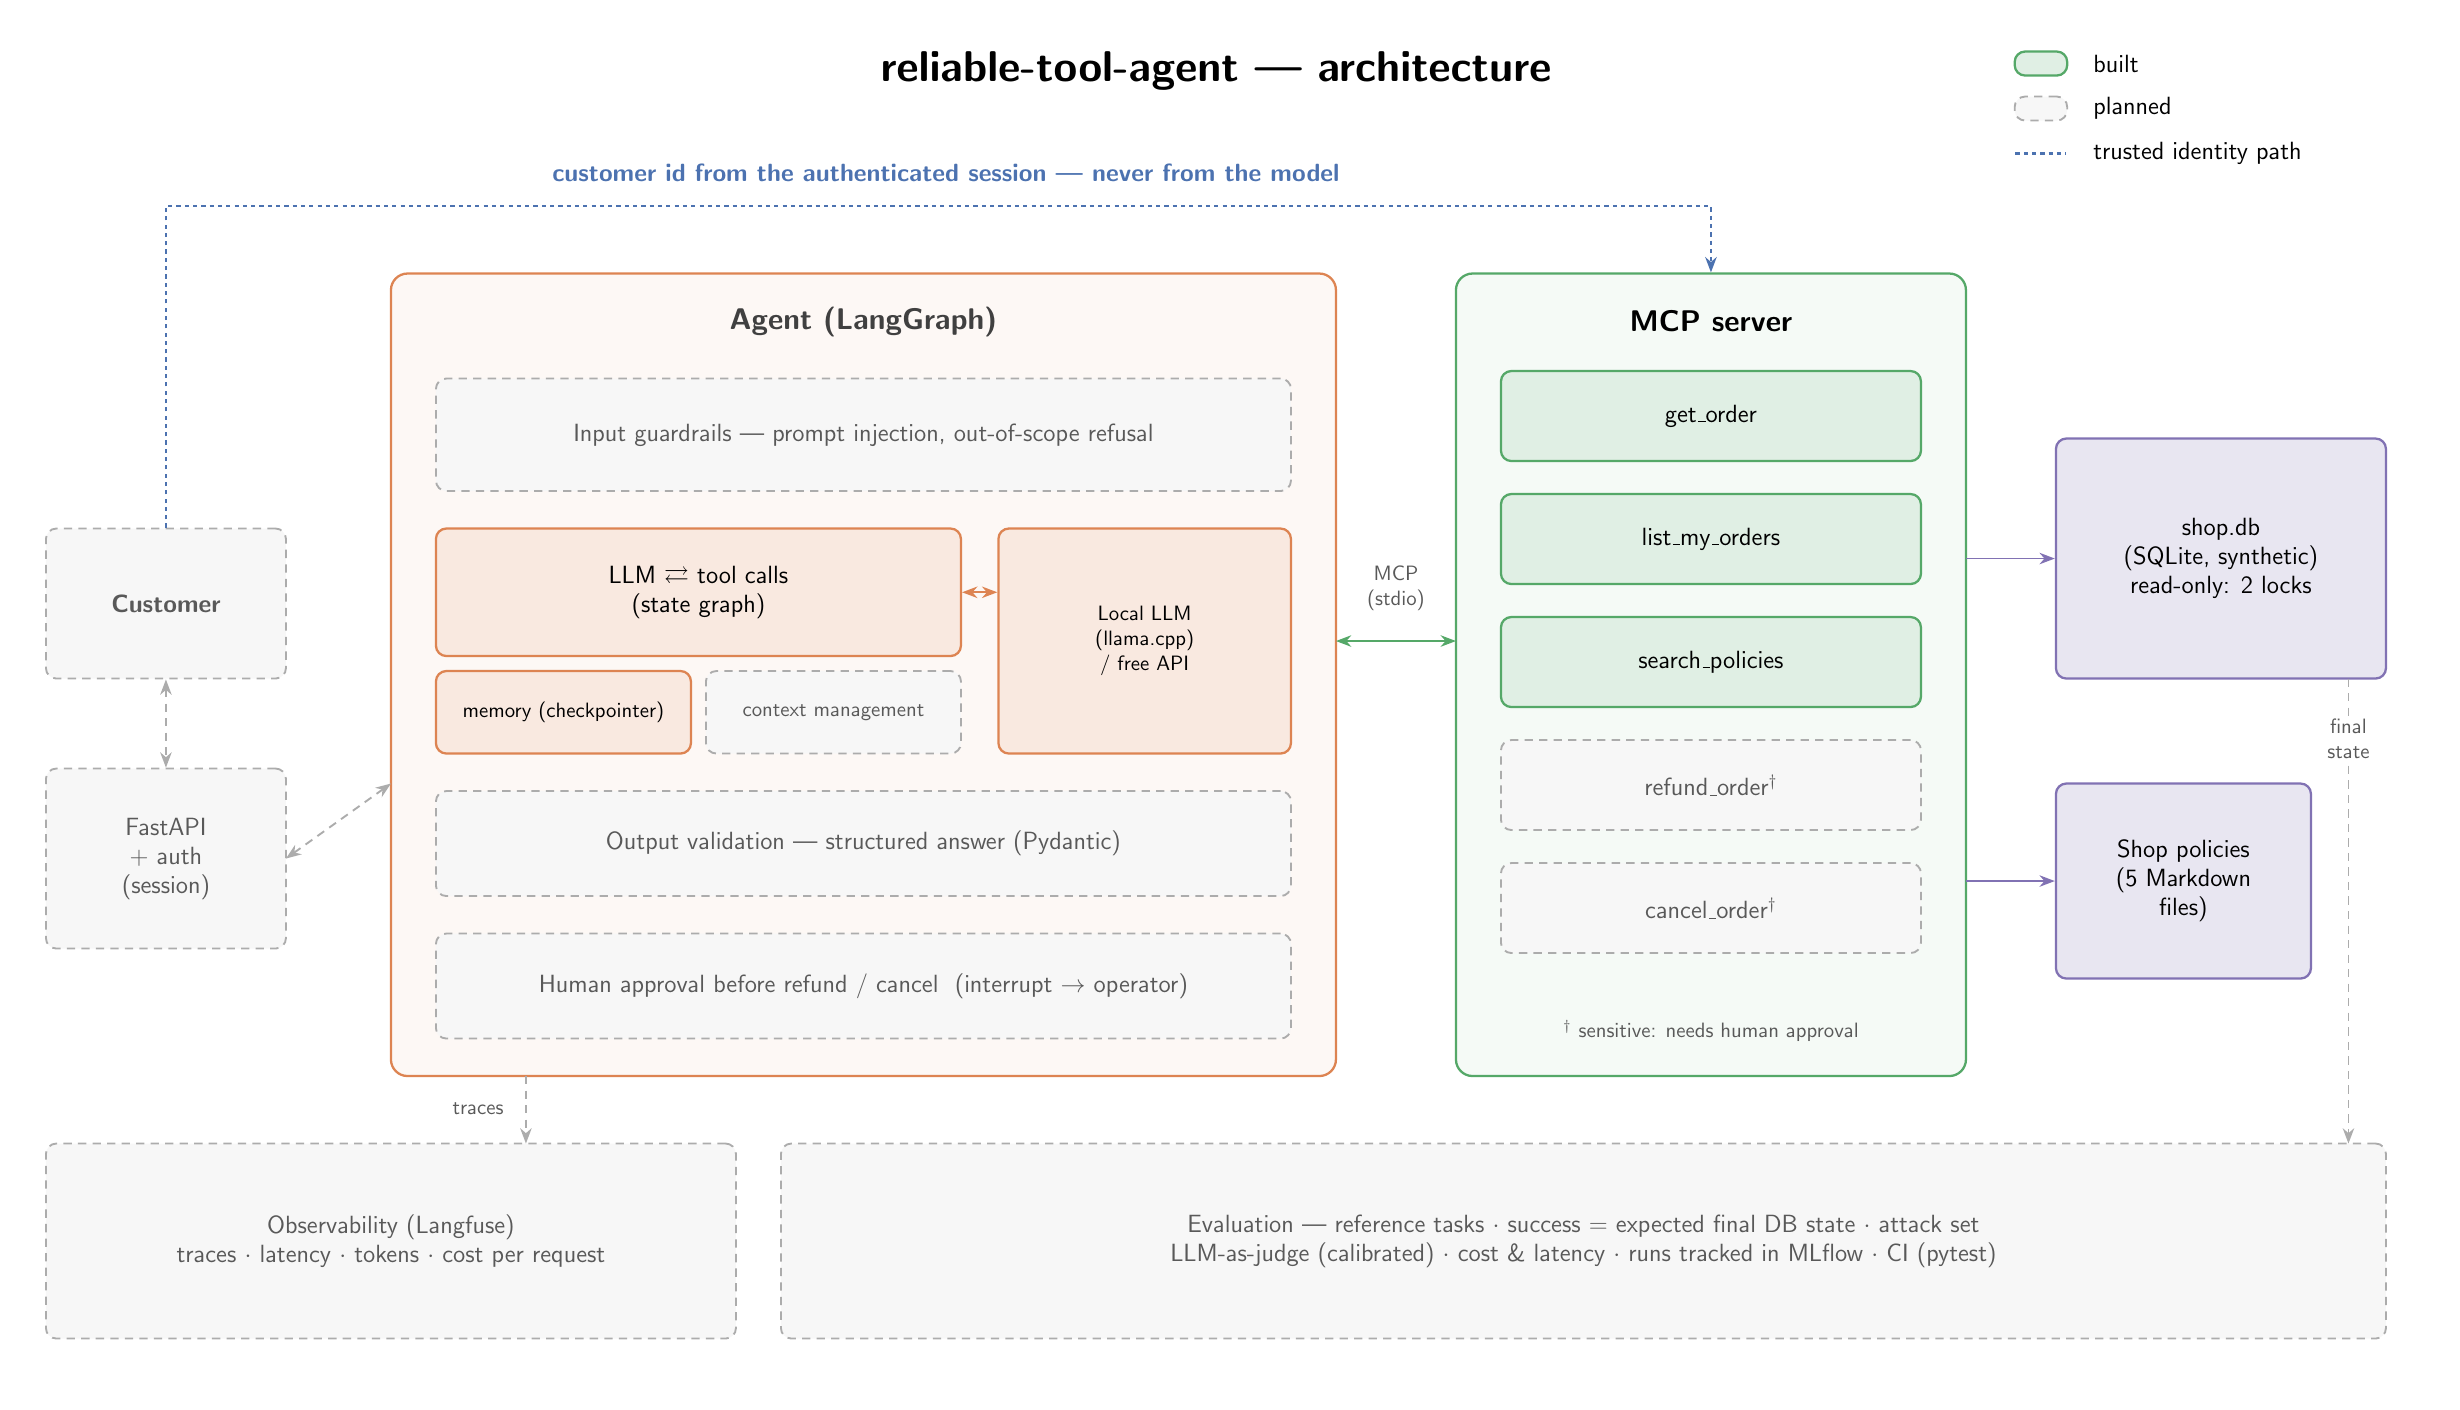
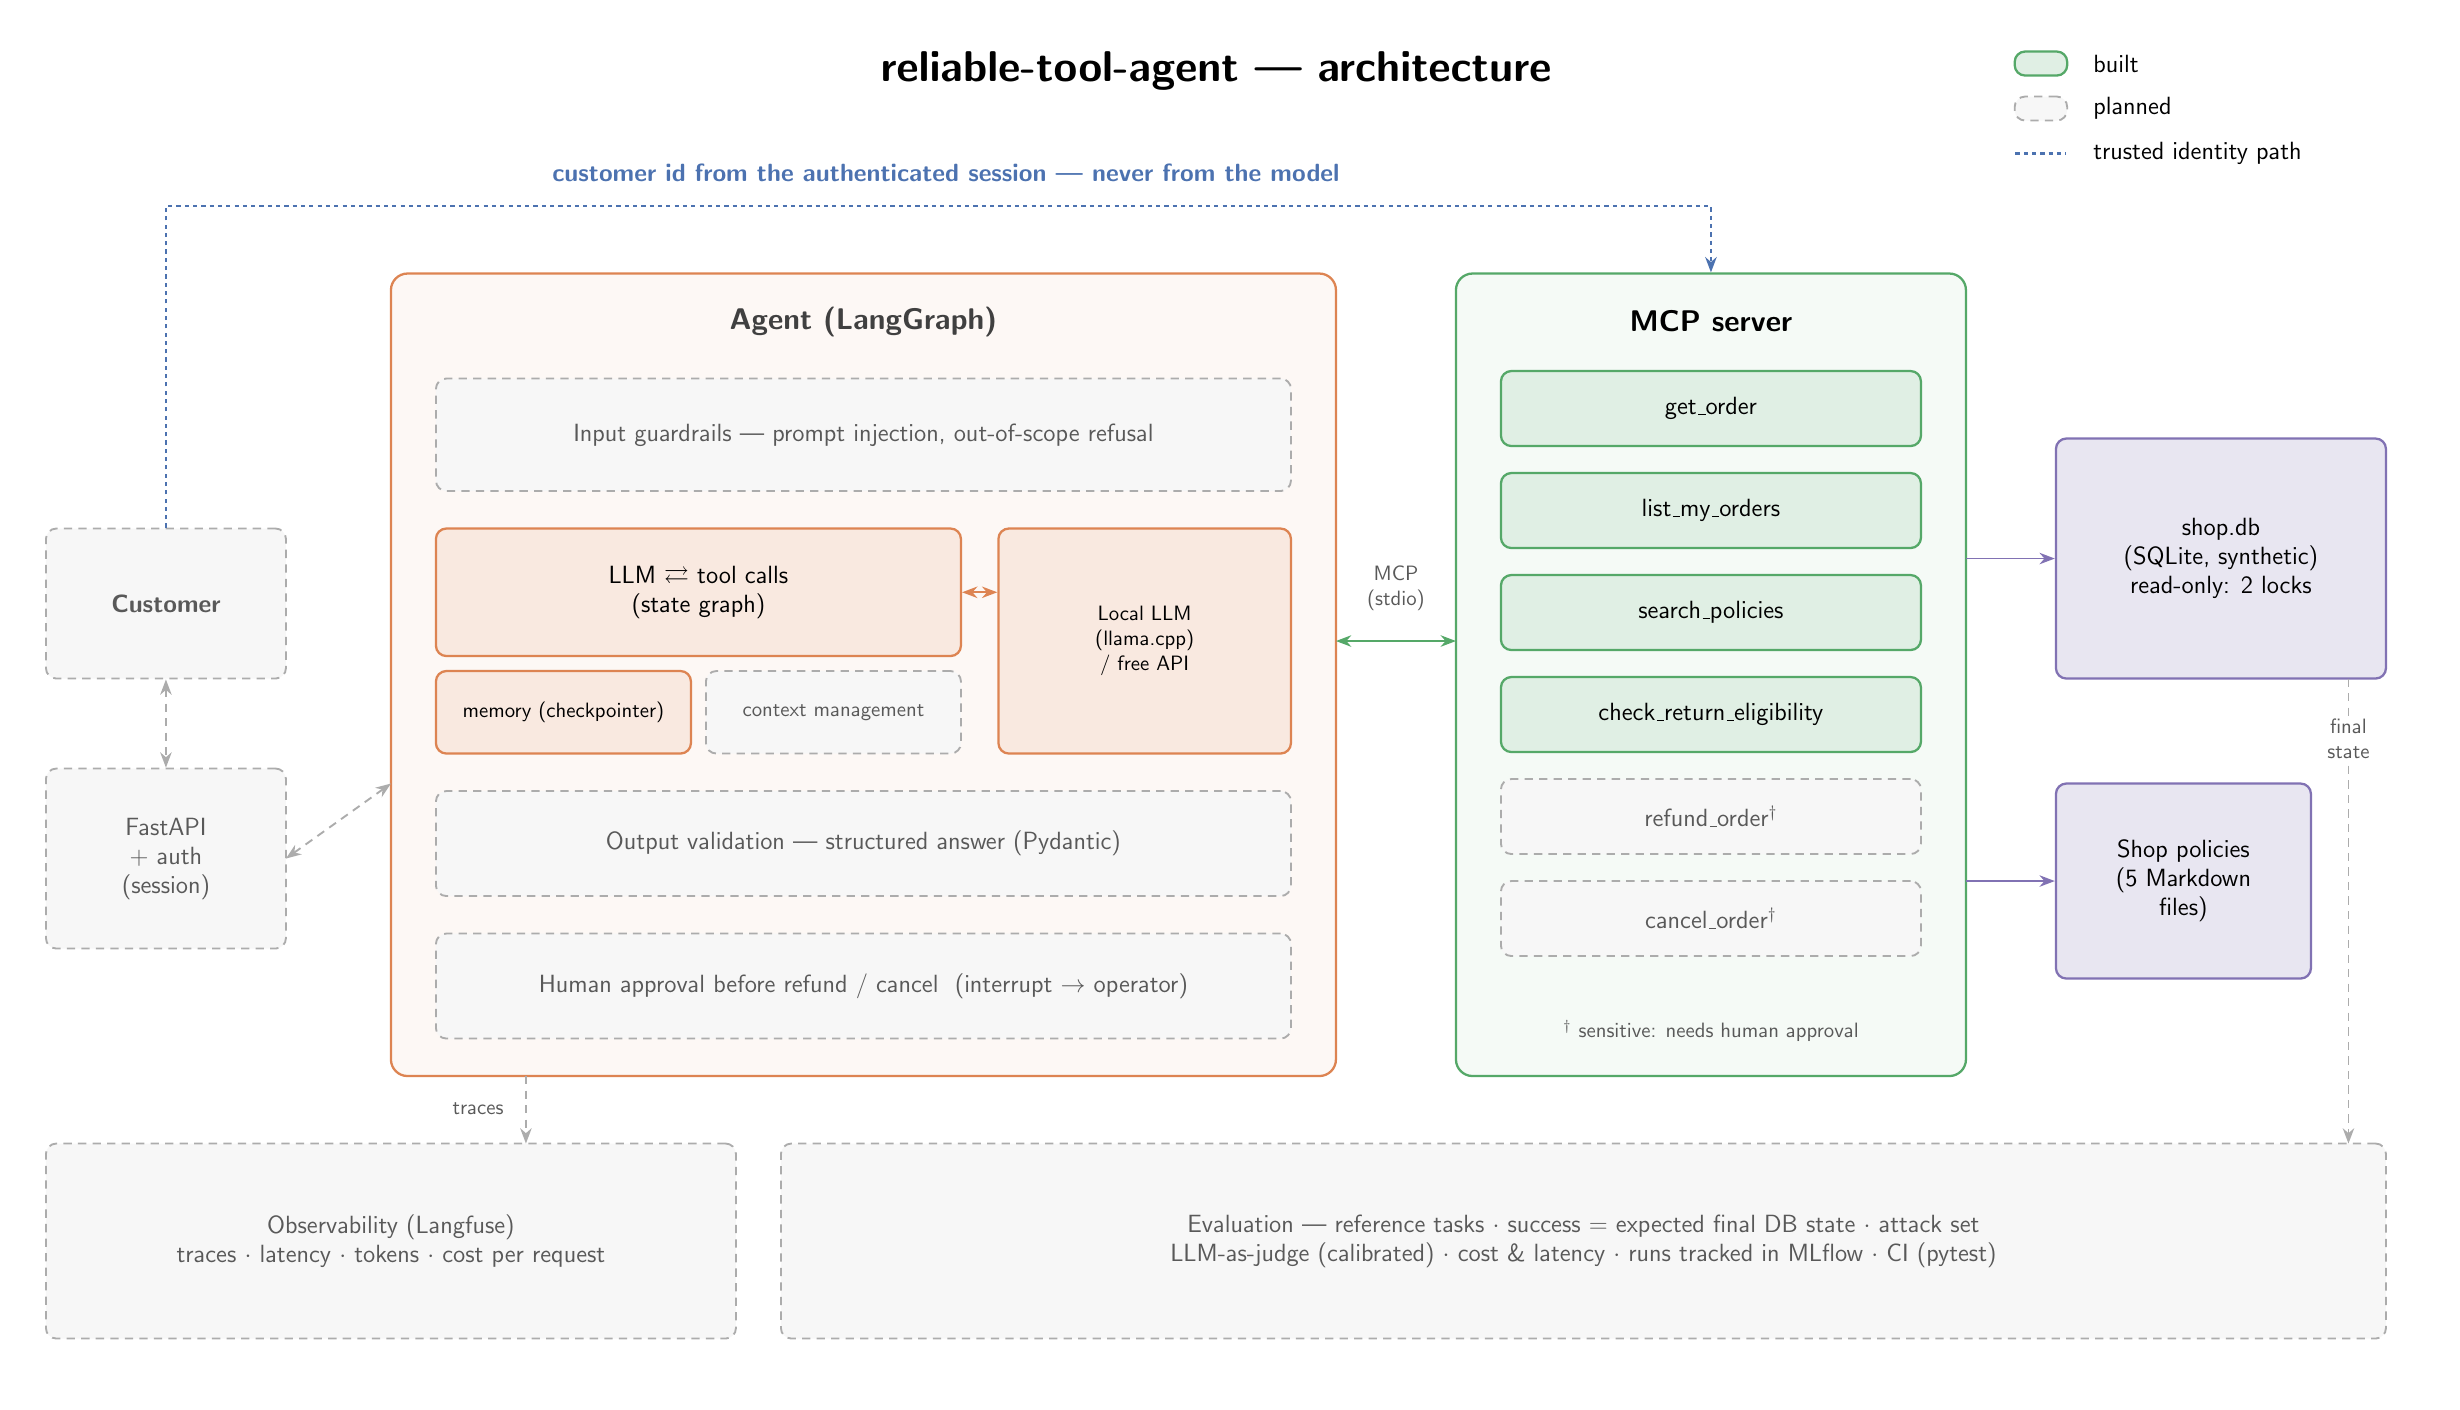
Add check_return_eligibility to the diagram

Changed region(s): [[0.6179, 0.2809, 0.7724, 0.5929], [0.6797, 0.6241, 0.7106, 0.6553]]

diff --git a/docs/architecture.tex b/docs/architecture.tex
@@ -76,11 +76,12 @@
   \node[built=mcp, fill=mcp!6, minimum width=3.4in, minimum height=5.35in, rounded corners=8pt]
     (mcp) at (11.3, 4.625) {};
   \node[frametitle, text=black] at (11.3, 6.98) {MCP server};
-  \node[built=mcp,   minimum width=2.8in, minimum height=0.6in] at (11.3, 6.35) {get\_order};
-  \node[built=mcp,   minimum width=2.8in, minimum height=0.6in] at (11.3, 5.53) {list\_my\_orders};
-  \node[built=mcp,   minimum width=2.8in, minimum height=0.6in] at (11.3, 4.71) {search\_policies};
-  \node[planned=mcp, minimum width=2.8in, minimum height=0.6in] at (11.3, 3.89) {refund\_order$^\dagger$};
-  \node[planned=mcp, minimum width=2.8in, minimum height=0.6in] at (11.3, 3.07) {cancel\_order$^\dagger$};
+  \node[built=mcp,   minimum width=2.8in, minimum height=0.5in] at (11.3, 6.40) {get\_order};
+  \node[built=mcp,   minimum width=2.8in, minimum height=0.5in] at (11.3, 5.72) {list\_my\_orders};
+  \node[built=mcp,   minimum width=2.8in, minimum height=0.5in] at (11.3, 5.04) {search\_policies};
+  \node[built=mcp,   minimum width=2.8in, minimum height=0.5in] at (11.3, 4.36) {check\_return\_eligibility};
+  \node[planned=mcp, minimum width=2.8in, minimum height=0.5in] at (11.3, 3.68) {refund\_order$^\dagger$};
+  \node[planned=mcp, minimum width=2.8in, minimum height=0.5in] at (11.3, 3.00) {cancel\_order$^\dagger$};
   \node[note] at (11.3, 2.25) {$^\dagger$ sensitive: needs human approval};
 
   \draw[darr, mcp] (8.8, 4.85) -- (9.6, 4.85);
